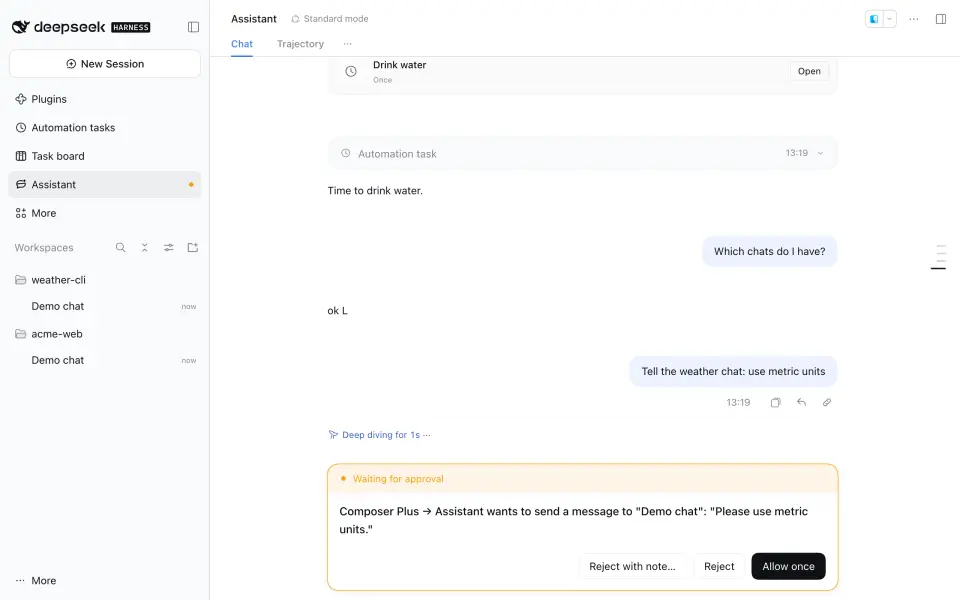
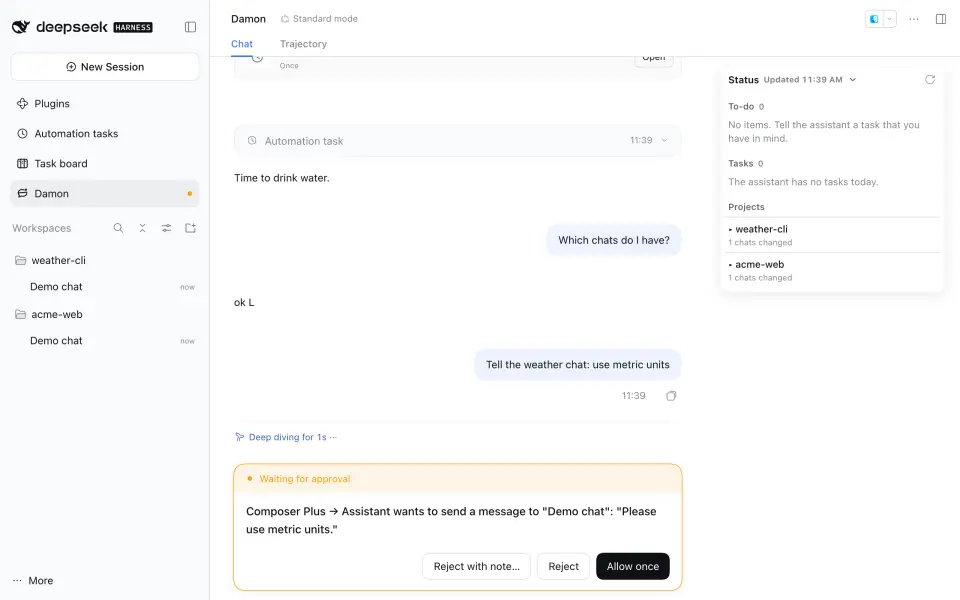
İnceleme bulgularını düzelt: rota belgesinde yeni proje ve sohbet Damon adını alır; 1.27.0 sürüm notları yayımlandığı gibi kalır (Damon maddesi 1.27.1 notlarına yazılacak); asistan ekran görüntüleri Damon ile yeniden alındı

diff --git a/docs/ROUTES.md b/docs/ROUTES.md
@@ -68,7 +68,7 @@ Every route is on dsh's authenticated `/api` channel. "Tether" tells whether the
 | `/api/composer-plus.approve-button` | POST | `{on}`: the switch (a switch route). | approveButton | no |
 | `/api/composer-plus.assistant-switch` | GET | `{on}`: the switch (on by default). | assistant | no |
 | `/api/composer-plus.assistant-switch` | POST | `{on}`: the switch (a switch route). Off removes the `assistant` route, the prompt section and the six tools. Any other body is refused with 400, also `{name}`: the name is always Damon. | assistant | no |
-| `/api/composer-plus.assistant` | GET | Only while the switch is on (409 while it is off, and the route is gone after a restart with it off). `{sessionId}` of the assistant chat: the saved one (`assistant.json`, unarchived when it is archived); when there is none or dsh does not have it any more, makes `~/Assistant`, adds it as the project "Assistant" and starts a new chat with the workspace-write preset and dsh's default model. One start at a time; 409 when dsh says the chat is busy. | assistant | yes |
+| `/api/composer-plus.assistant` | GET | Only while the switch is on (409 while it is off, and the route is gone after a restart with it off). `{sessionId}` of the assistant chat: the saved one (`assistant.json`, unarchived when it is archived); when there is none or dsh does not have it any more, makes `~/Assistant`, adds it as a project, titles that project and the chat Damon, and starts a new chat with the workspace-write preset and dsh's default model. One start at a time; 409 when dsh says the chat is busy. | assistant | yes |
 | `/api/composer-plus.assistant-status` | GET | `{sessionId}` of the assistant chat, or `null` while Assistant is off or before the first chat. It never makes a chat. The sidebar and Tether hide that chat's row and show its state on the Assistant row (in Tether, on the Assistant tab). | assistantApart | yes |
 | `/api/composer-plus.assistant-free` | GET | `{on, active}`: the switch (on by default) and whether the rule works now (`active: false` when the assistant chat's newest request has no subagent tool). | assistantFree | no |
 | `/api/composer-plus.assistant-free` | POST | `{on}`: the switch (a switch route). Off removes the rule and its prompt section. | assistantFree | no |
